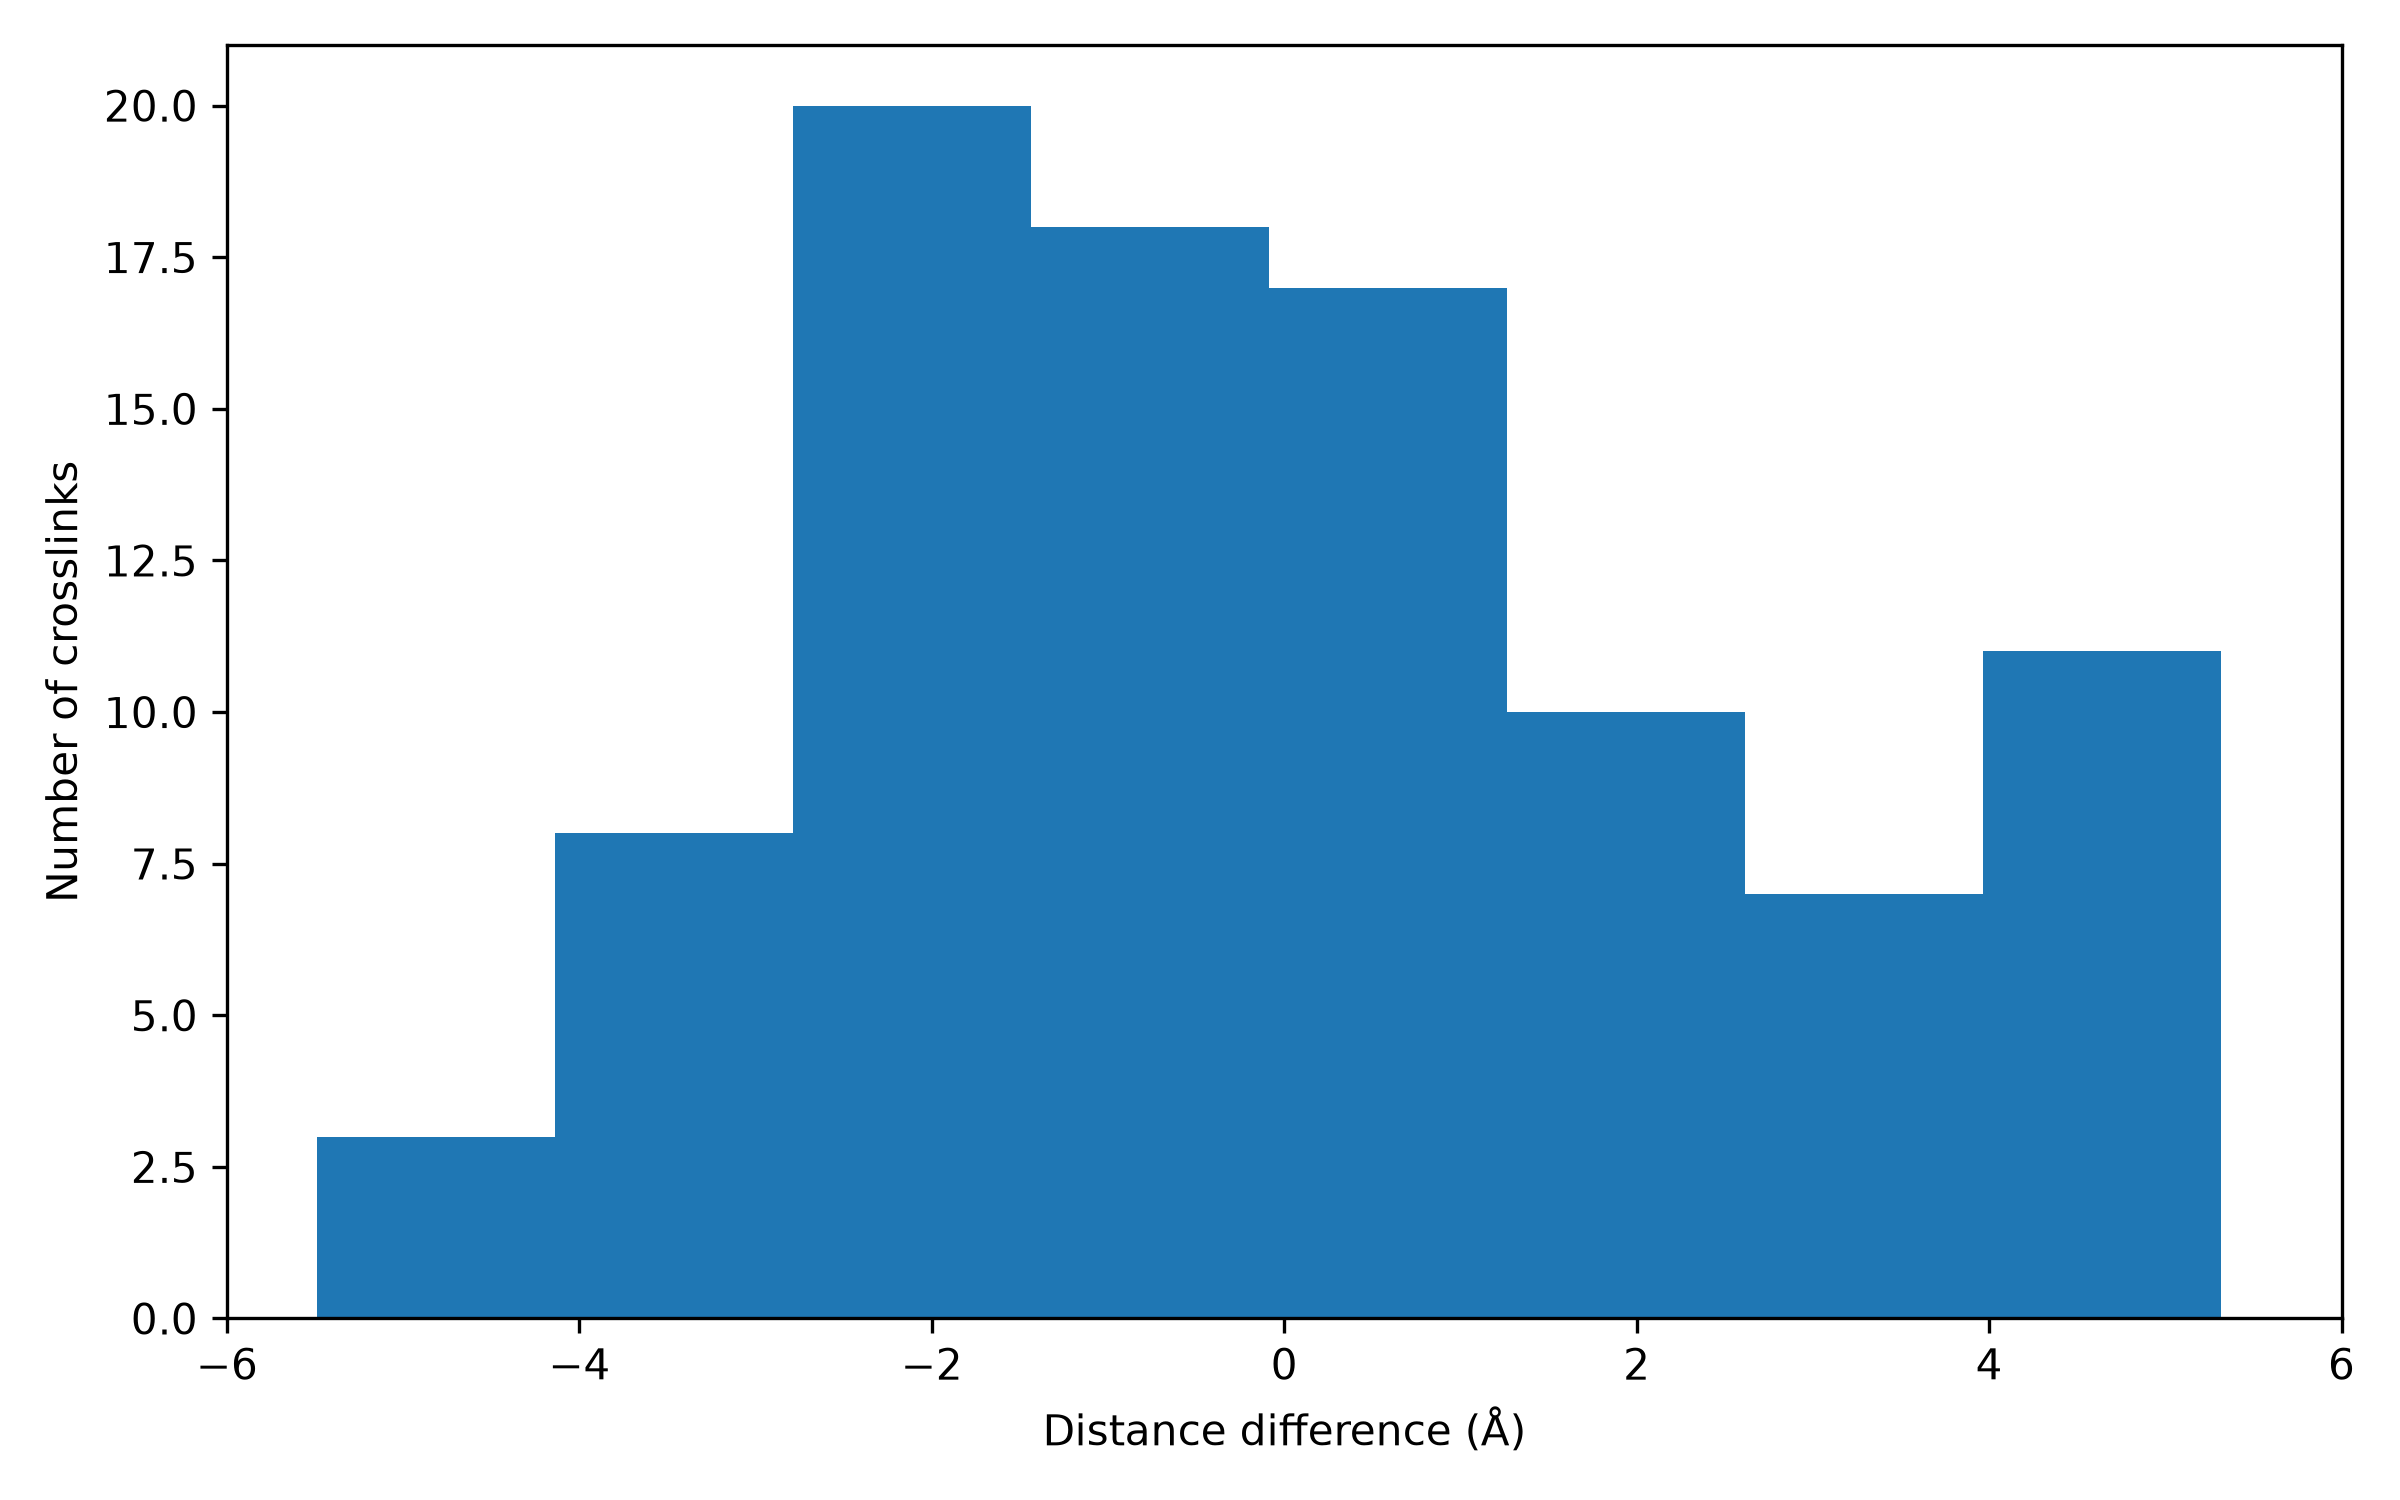
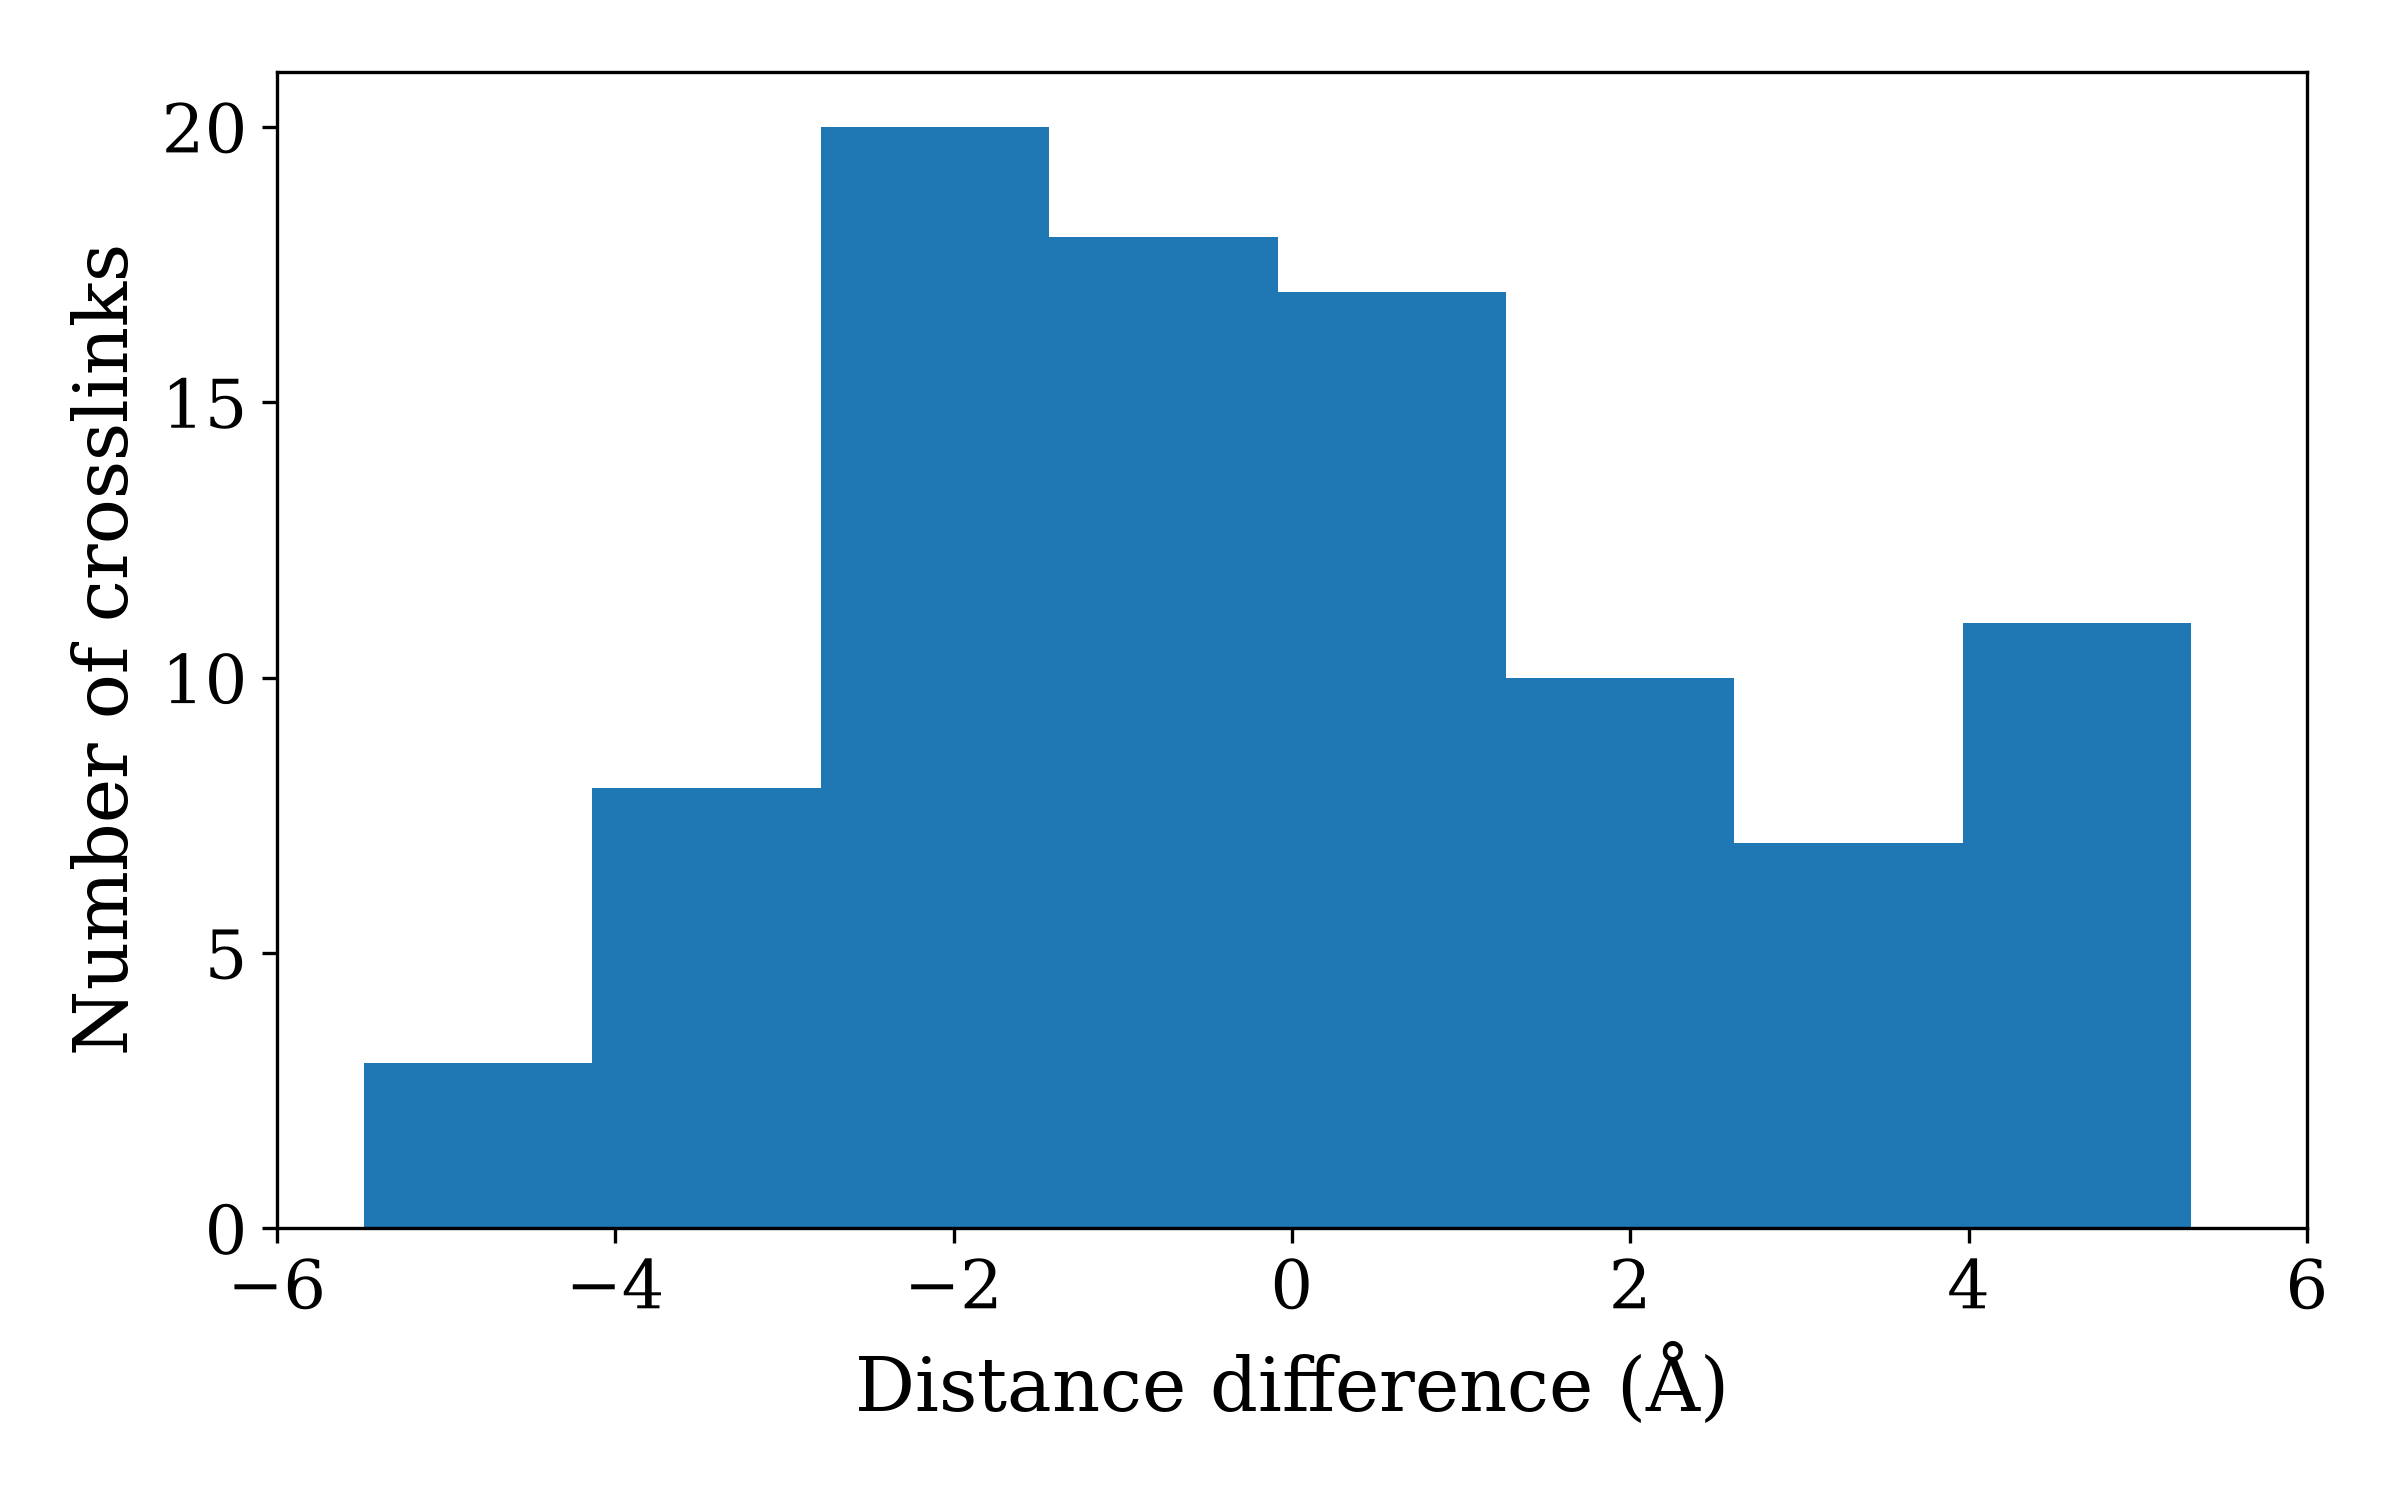
refactor: script for statistical tests

Changed region(s): [[0.0, 0.0307, 0.9688, 0.9813], [0.4375, 0.1533, 0.5312, 0.184], [0.9688, 0.8893, 1.0, 0.92]]

diff --git a/analyses/statistical_test/statistical_test.py b/analyses/statistical_test/statistical_test.py
@@ -6,11 +6,7 @@ import numpy as np
 script_dir = Path(__file__).parent
 project_dir = script_dir.parent
 input_dir = project_dir / "main_analyses" / "input_main_analyses"
-output_dir = script_dir / "statistical_test_results"
 
-output_dir.mkdir(exist_ok=True)
-
-#def welch_t_test(dfs, output_file):
 def welch_t_test(dfs):
     data1 = dfs[0]["distance_difference"].dropna()
     data2 = dfs[1]["distance_difference"].dropna()
@@ -41,13 +37,13 @@ def welch_t_test(dfs):
     
 
     print("Welch-t-Test")
-    print(f"Stichprobengröße 1: {len(data1)}")
-    print(f"Stichprobengröße 2: {len(data2)}")
-    print(f"Mittelwert 1: {data1.mean():.2f} Å")
-    print(f"Mittelwert 2: {data2.mean():.2f} Å")
-    print(f"Mean difference: {mean_diff:.2f} Å")
-    print(f"t-Statistik: {result.statistic:.3f}")
-    print(f"p-Wert: {result.pvalue:.3f}")
+    print(f"sample size 1: {len(data1)}")
+    print(f"sample size 2: {len(data2)}")
+    print(f"mean 1: {data1.mean():.2f} Å")
+    print(f"mean 2: {data2.mean():.2f} Å")
+    print(f"mean difference: {mean_diff:.2f} Å")
+    print(f"t-statistic: {result.statistic:.3f}")
+    print(f"p-value: {result.pvalue:.3f}")
     print(f"95% CI: [{ci_low:.2f}, {ci_high:.2f}] Å")
 
 def merge_dfs(df_ca: pd.DataFrame, df_exact: pd.DataFrame) -> pd.DataFrame:
@@ -156,23 +152,17 @@ def main():
             except ValueError:
                 print("Invalid selection.")
 
-    output_file = output_dir / "results.png"
-
     if not selected_dirs: 
         print("No directories selected.")
         return 
     
     try: 
         dfs = prepare_all_data(selected_dirs)
-        #welch_t_test(dfs, output_file)
         welch_t_test(dfs)
 
     except ValueError as error: 
         print(f"\nError: {error}")
         return
-    
-    print("\nOutput files were written to:")
-    print(output_file)
     
 
 if __name__ == "__main__":
